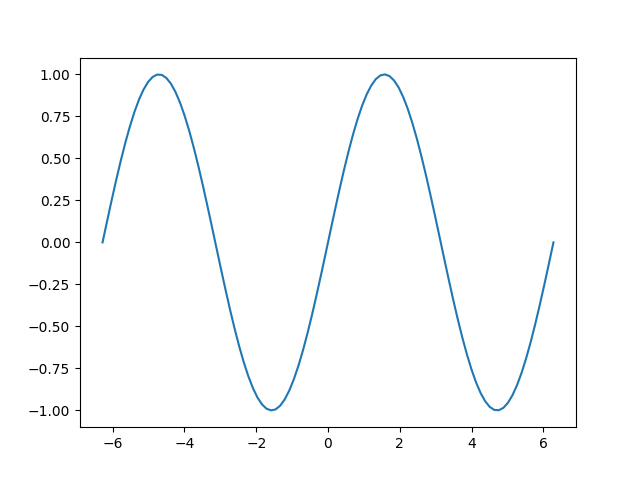
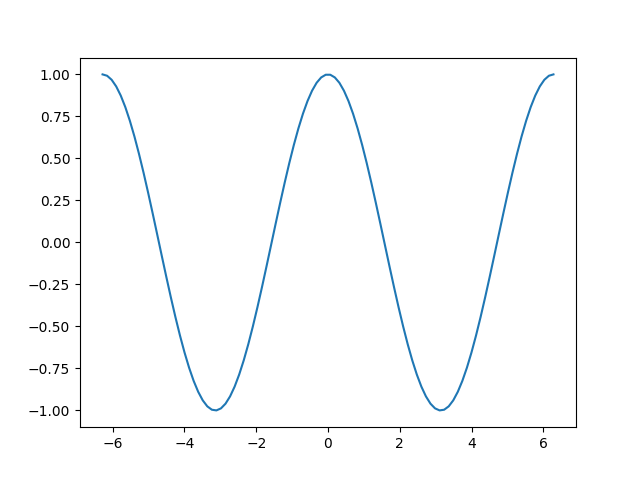
Correccion de error

diff --git a/ejercicio.py b/ejercicio.py
@@ -3,6 +3,6 @@ import matplotlib.pylab as plt
 a=np.linspace(-2*np.pi,2*np.pi,100)
 b=[]
 for i in range(len(a)):
-    b.append(np.sin(a[i]))
+    b.append(np.cos(a[i]))
 plt.plot(a,b)
 plt.savefig('seno.png')
